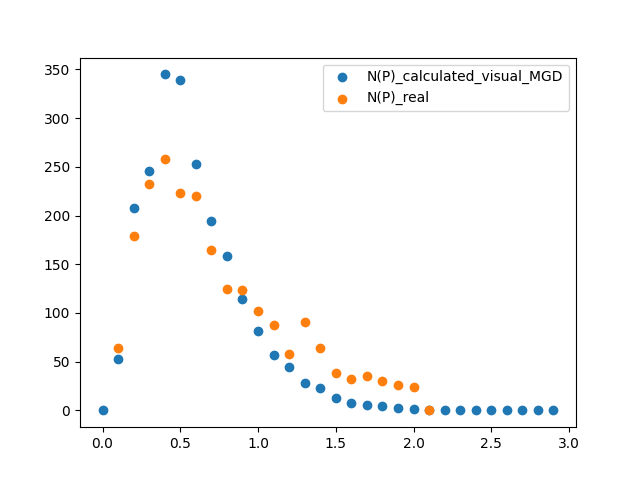
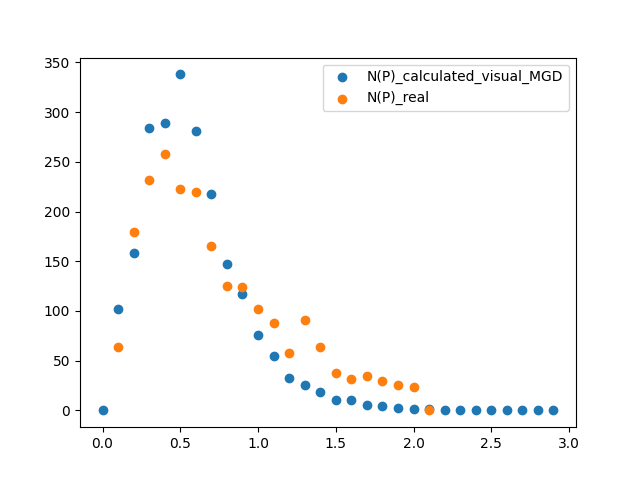
now stars are created via distribution generator

diff --git a/main_old.py b/main_old.py
@@ -22,38 +22,28 @@ W_0 = 3 * math.pi / 180
 
 
 # birth distribution functions
-def P_BGI(P):
-    return P**0.65
+def P_BGI():
+    pass
 
 
-def P_MGD(P):
-    return P**0.65
+def P_MGD():
+    pass
 
 
-def chi_BGI(chi):
-    return 1
+def chi_BGI():
+    pass
 
 
-def chi_MGD(chi):
-    return np.sin(chi)
+def chi_MGD():
+    pass
 
 
-def B_BGI(B):
-    if 0.1 < B < 1.5:
-        return (B - 0.1) / 1.4
-    elif 1.5 < B < 8:
-        return (8 - B) / 6.5
-    else:
-        return 0
+def B_BGI():
+    pass
 
 
-def B_MGD(B):
-    if 0.1 < B < 1.5:
-        return (B - 0.1) / 1.4
-    elif 1.5 < B < 8:
-        return (8 - B) / 6.5
-    else:
-        return 0
+def B_MGD():
+    pass
 
 
 class rand_distribution_generator:
@@ -122,24 +112,21 @@ class Star:
         # print(self.P, self.chi, self.P_dot, self.chi_dot)
 
 
-def create_star(P_dist, chi_dist, B_dist):
-    P = P_dist.get_rand_value()
-    chi = chi_dist.get_rand_value()
-    B12 = B_dist.get_rand_value()
-    # if MODEL == "BGI":
-    #     chi = random.uniform(0.001, math.pi / 2.0)
-    #     P = (0.03 ** 1.65 + random.uniform(0, 1) * (1.2 ** 1.65 - 0.03 ** 1.65)) ** (1 / 1.65)
-    #     # P = random.triangular(0.03, 1.2, 0.6)
-    #     # P = random.triangular(0.03, 0.5, 0.3)
-    #     # B12 = random.uniform(1, 10)
-    #     B12 = random.triangular(0.1, 8, 1.5)
-    # elif MODEL == "MGD":
-    #     # P = random.uniform(0.03, 1.0)
-    #     P = (0.03 ** 1.65 + random.uniform(0, 1) * (0.5 ** 1.65 - 0.03 ** 1.65)) ** (1 / 1.65)
-    #     # P_gen = rand_distribution_generator(lambda x: x ** 0.65, 0.03, 0.5)
-    #     # P = P_gen.get_rand_value()
-    #     chi = math.acos(random.uniform(0, 1))
-    #     B12 = random.triangular(0.1, 8, 1.5)
+def create_star():
+    if MODEL == "BGI":
+        chi = random.uniform(0.001, math.pi / 2.0)
+        P = (0.03 ** 1.65 + random.uniform(0, 1) * (1.2 ** 1.65 - 0.03 ** 1.65)) ** (1 / 1.65)
+        # P = random.triangular(0.03, 1.2, 0.6)
+        # P = random.triangular(0.03, 0.5, 0.3)
+        # B12 = random.uniform(1, 10)
+        B12 = random.triangular(0.1, 8, 1.5)
+    elif MODEL == "MGD":
+        # P = random.uniform(0.03, 1.0)
+        P = (0.03 ** 1.65 + random.uniform(0, 1) * (0.5 ** 1.65 - 0.03 ** 1.65)) ** (1 / 1.65)
+        # P_gen = rand_distribution_generator(lambda x: x ** 0.65, 0.03, 0.5)
+        # P = P_gen.get_rand_value()
+        chi = math.acos(random.uniform(0, 1))
+        B12 = random.triangular(0.1, 8, 1.5)
     return Star(chi, P, 0.01, 0.01, B12)
 
 
@@ -147,7 +134,8 @@ def check_death_line(star):
     """
     return true if pulsar is alive
     """
-    if (0 <= star.chi < math.pi / 2) and star.Q() < 1:  # and (math.cos(star.chi) ** 0.4667) >= star.P * (A ** 0.9333) * (star.B12 ** 0.5333):
+    if (
+            0 <= star.chi < math.pi / 2) and star.Q() < 1:  # and (math.cos(star.chi) ** 0.4667) >= star.P * (A ** 0.9333) * (star.B12 ** 0.5333):
         return True
     return False
 
@@ -291,21 +279,12 @@ def count_SP_interpulse_pulsars(star_set, P_min, P_max):
 
 def main():
     star_set = set()
-    # Birth distribution generator
-    if MODEL == "BGI":
-        P_dist = rand_distribution_generator(P_BGI, 0.03, 0.5)
-        chi_dist = rand_distribution_generator(chi_BGI, 0.001, np.pi / 2)
-        B_dist = rand_distribution_generator(B_BGI, 0.1, 8)
-    elif MODEL == "MGD":
-        P_dist = rand_distribution_generator(P_MGD, 0.03, 0.5)
-        chi_dist = rand_distribution_generator(chi_MGD, 0.001, np.pi / 2)
-        B_dist = rand_distribution_generator(B_MGD, 0.1, 8)
     # main cycle
     for i in range(STEPS_NUMBER):
         if i % 10 == 0:
             print("STEP", i, "OUT OF", STEPS_NUMBER)
         for j in range(BIRTH_COEFFICIENT):
-            star = create_star(P_dist, chi_dist, B_dist)
+            star = create_star()
             if check_death_line(star):
                 star_set.add(star)
         live_star_set = set()
